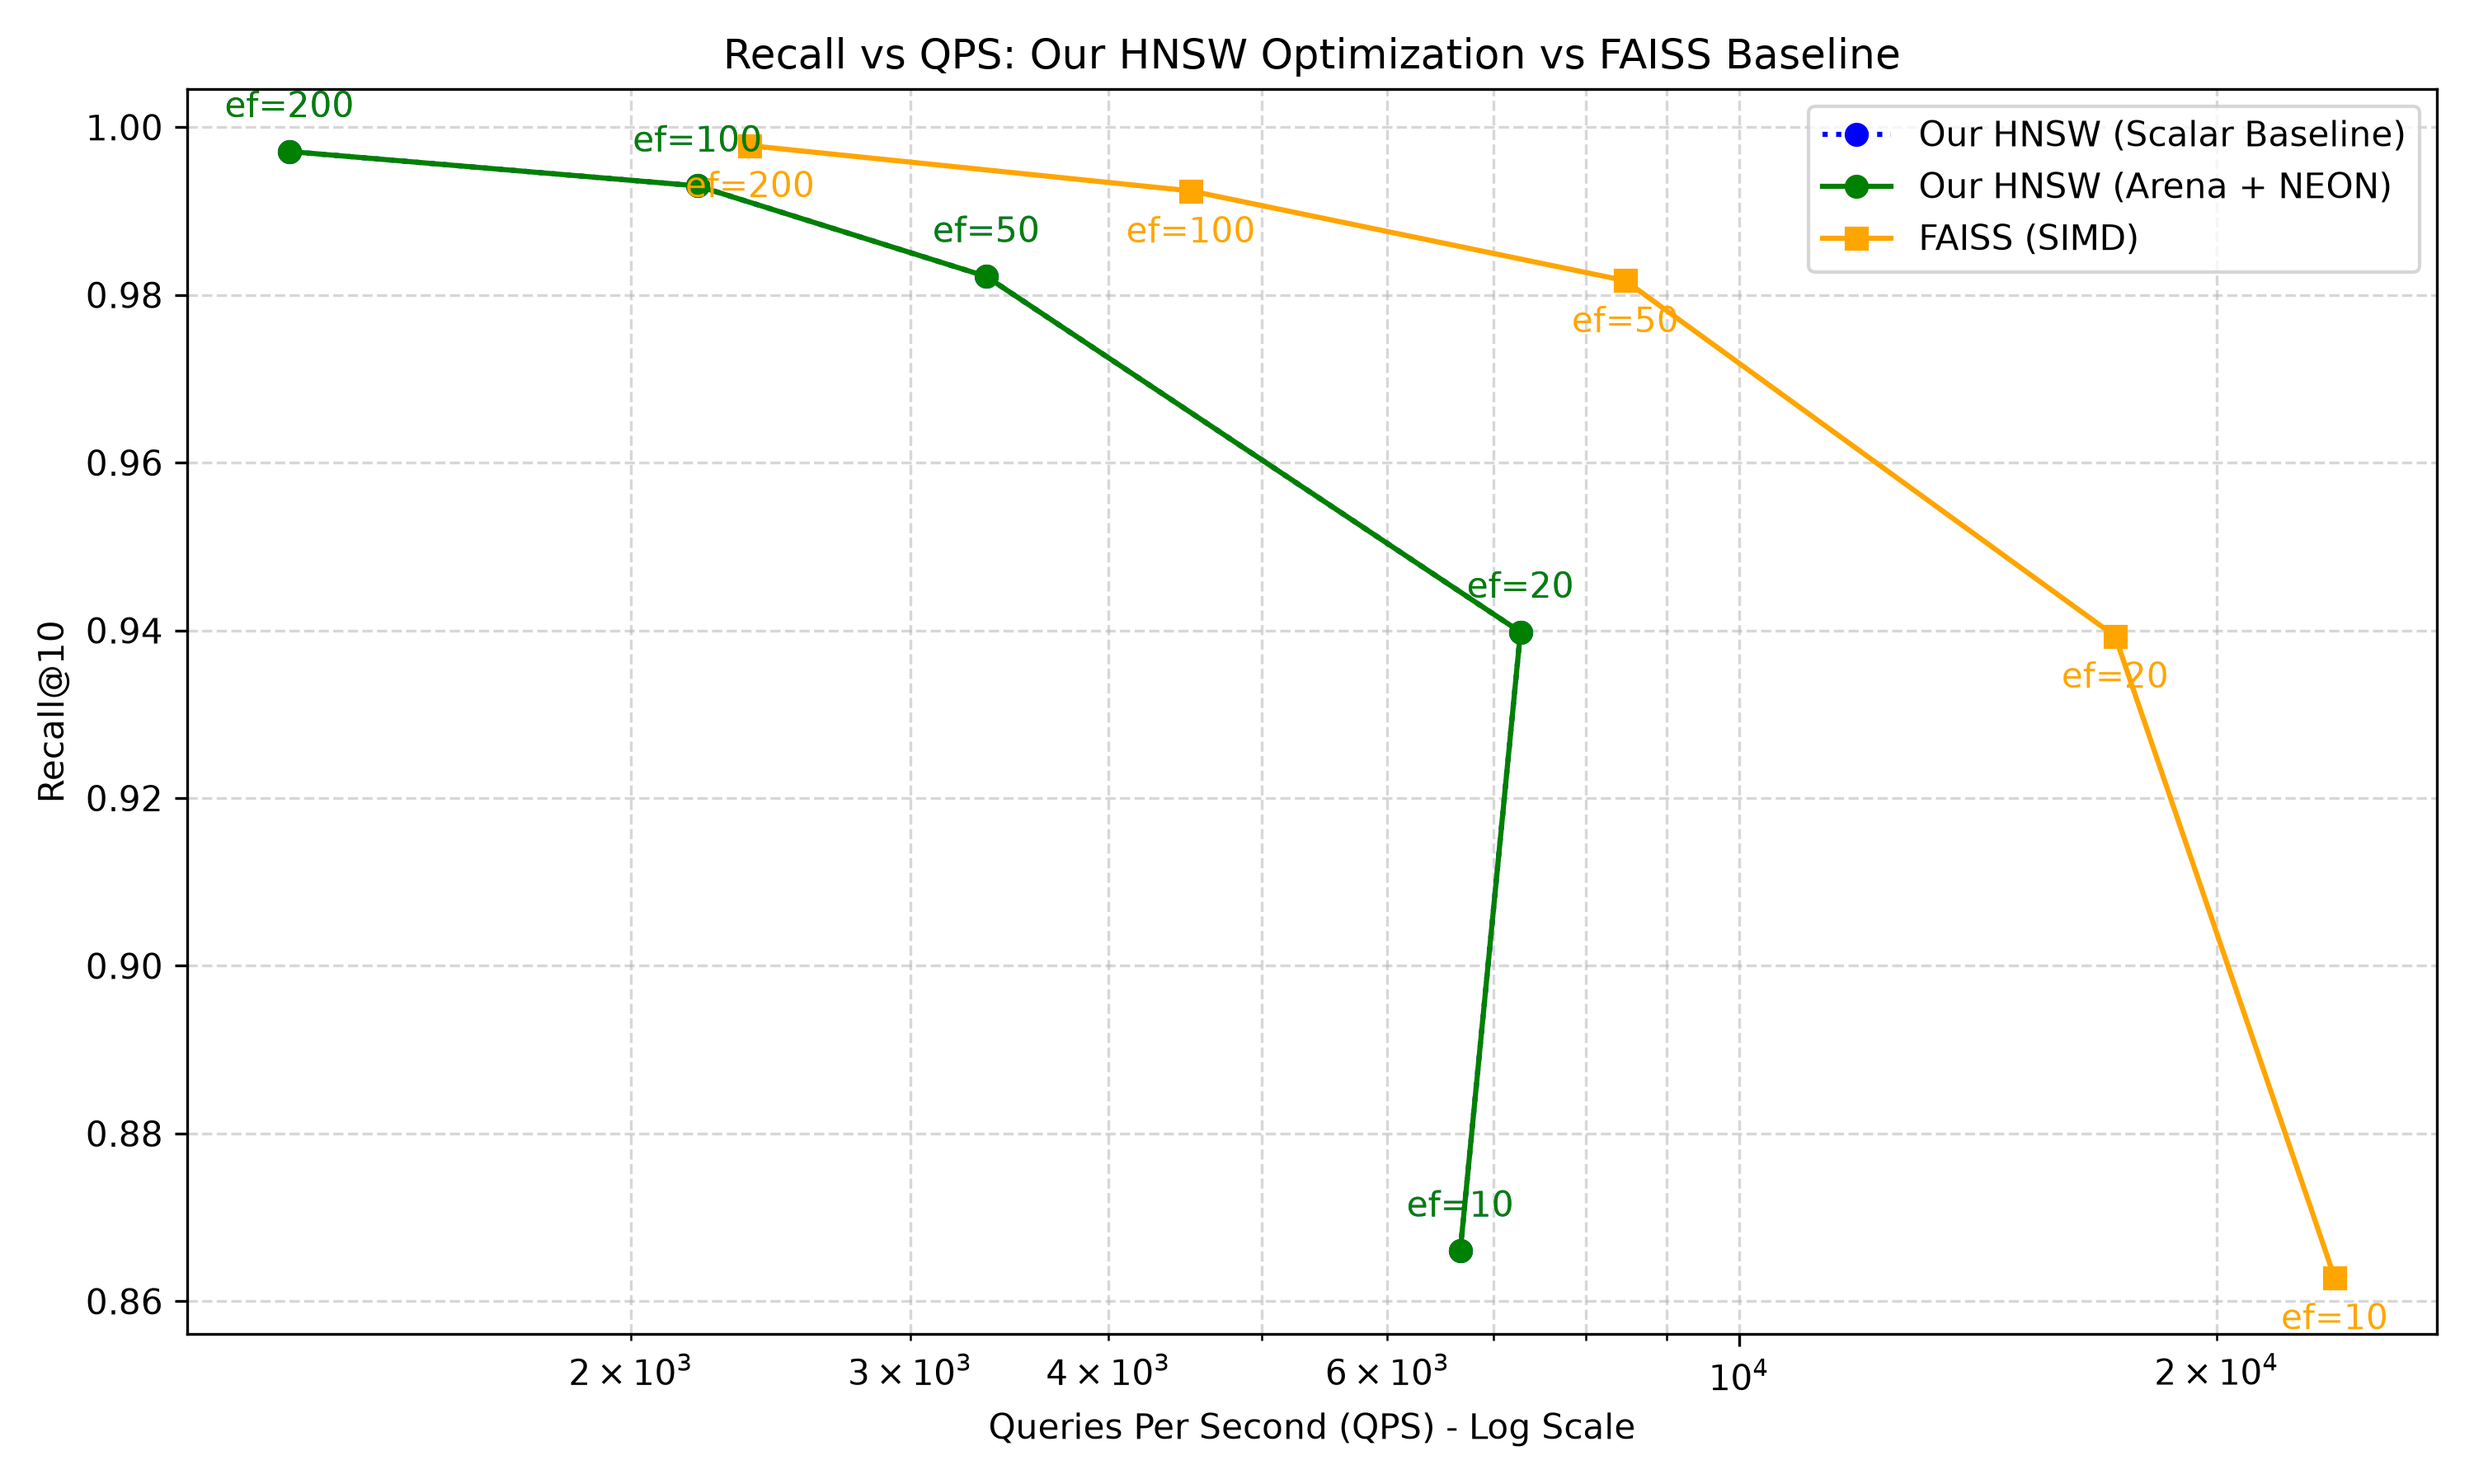
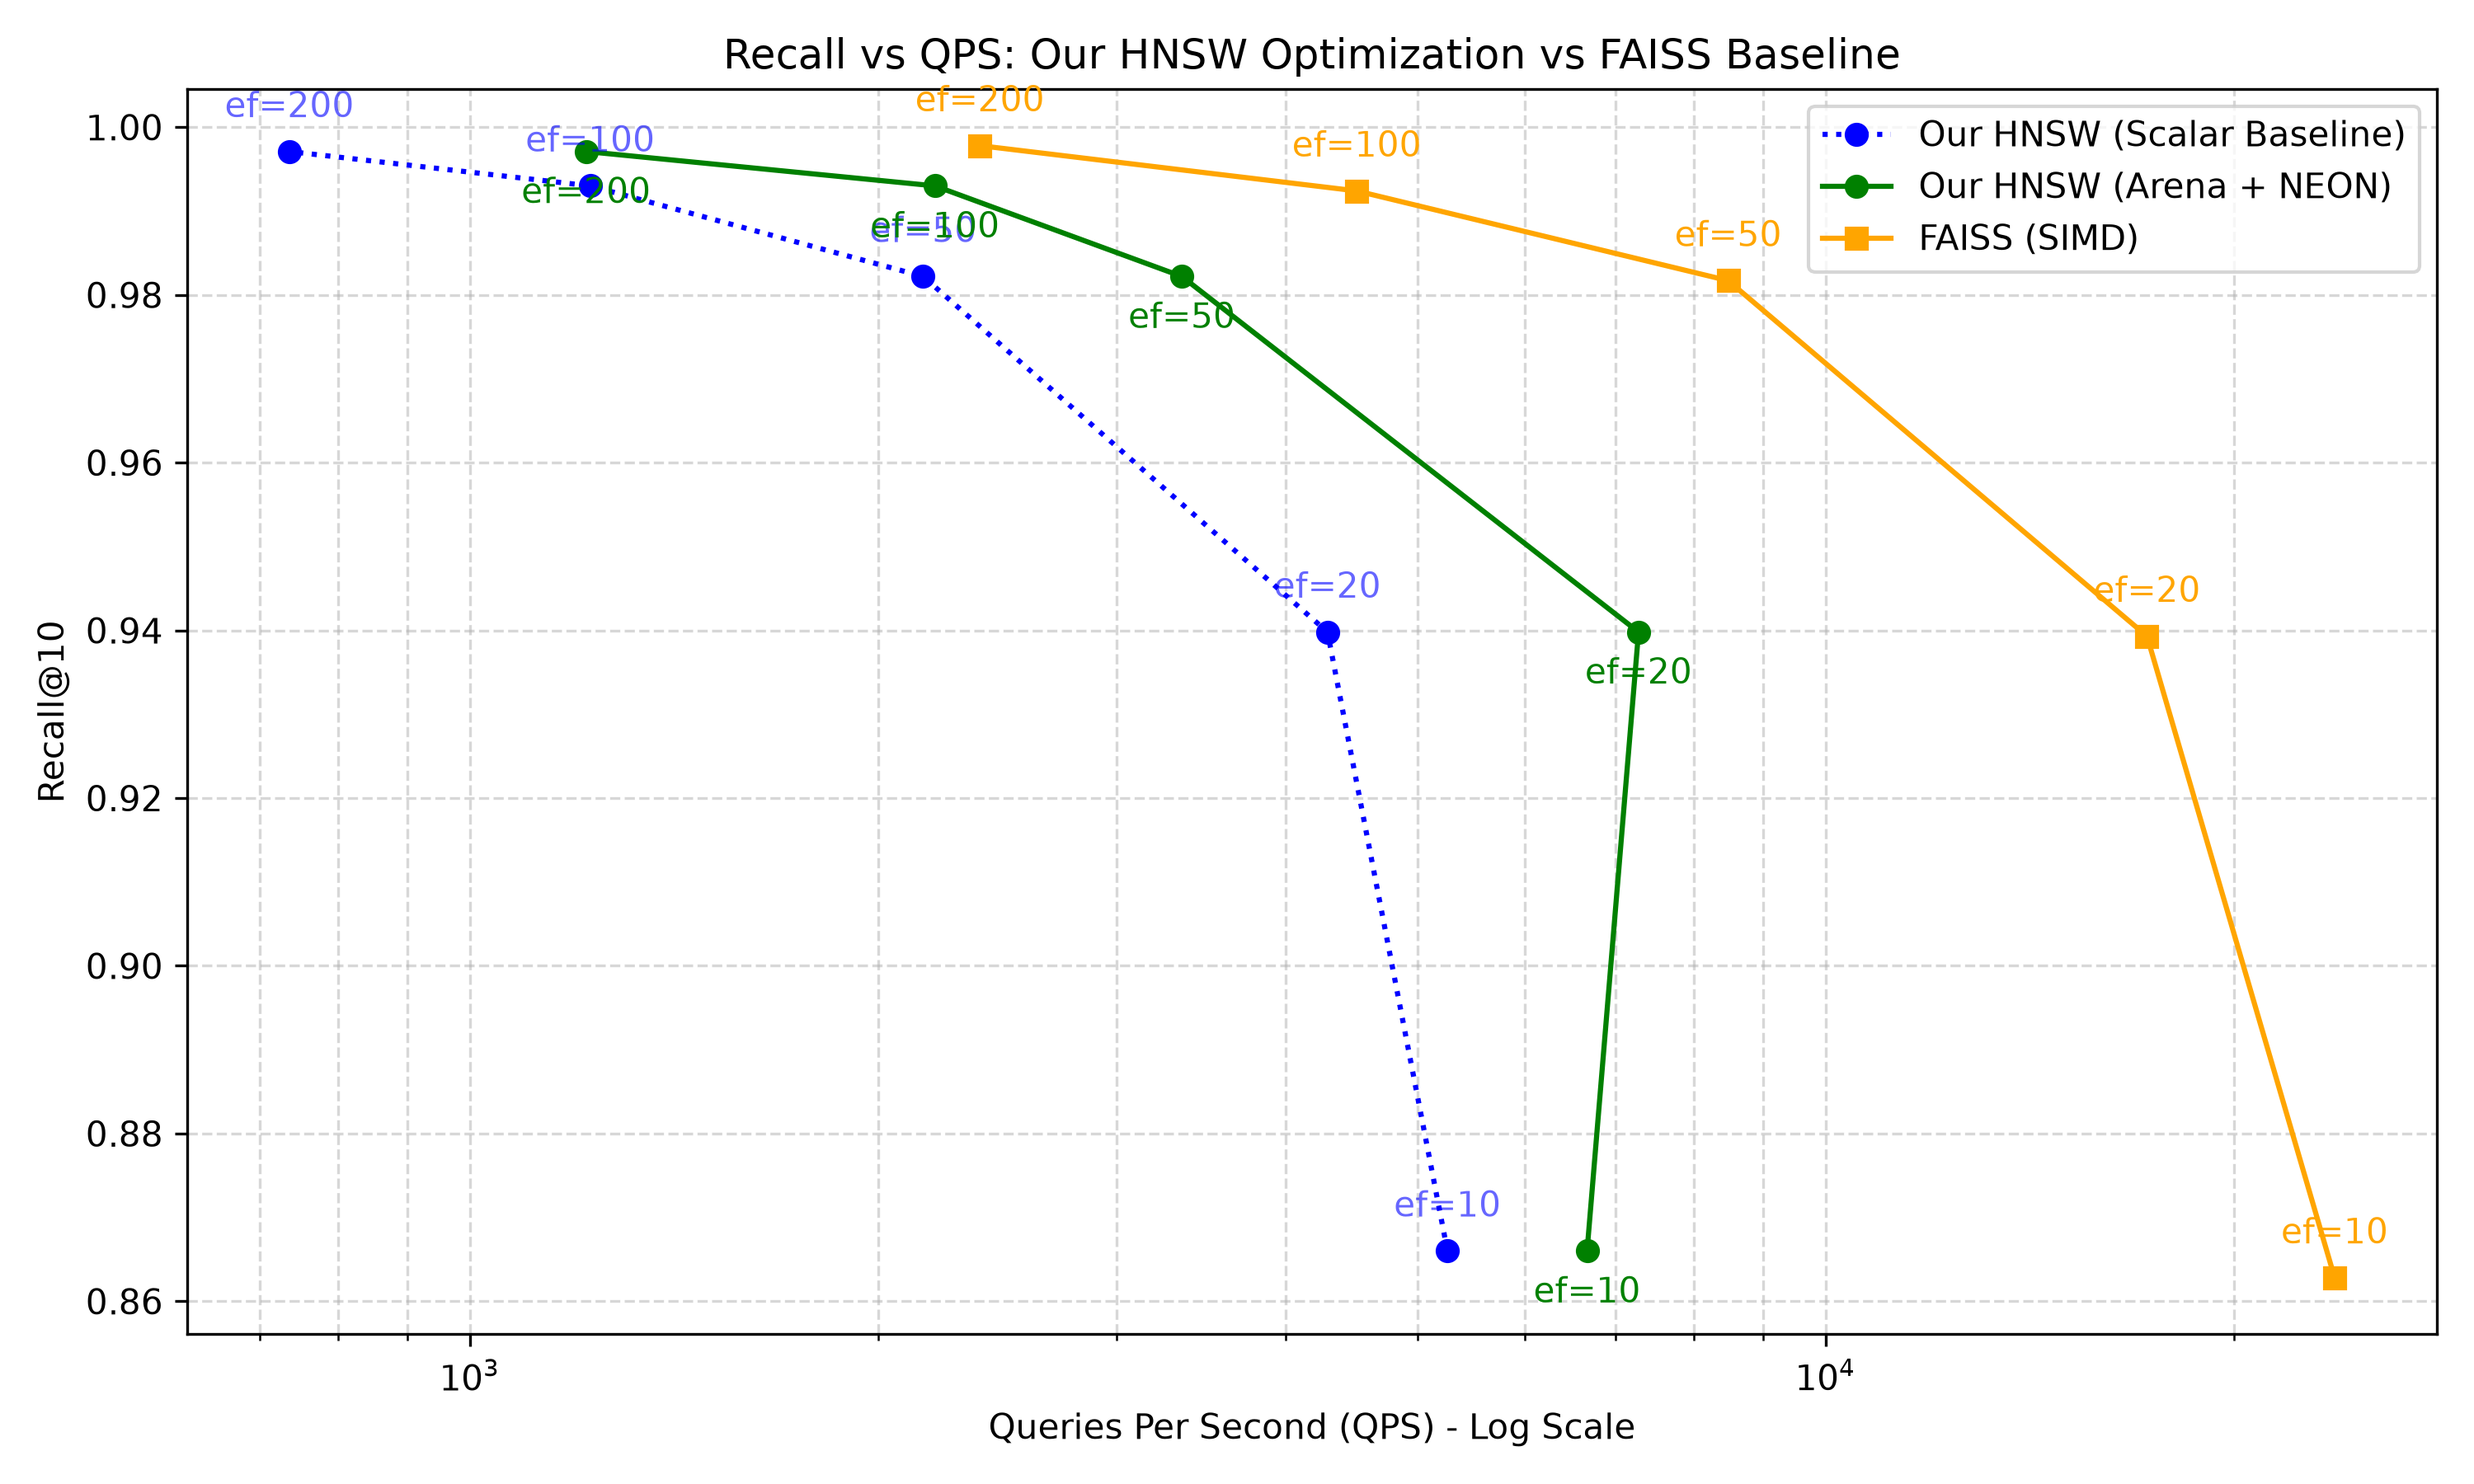
Fix plot rendering: correctly separate scalar and final csv sources so both lines appear

diff --git a/benchmarks/plot_results.py b/benchmarks/plot_results.py
@@ -4,20 +4,20 @@ import os
 
 def main():
     root_dir = os.path.dirname(os.path.dirname(os.path.abspath(__file__)))
-    hnsw_csv = os.path.join(root_dir, 'benchmarks', 'results_hnsw.csv')
+    hnsw_scalar_csv = os.path.join(root_dir, 'benchmarks', 'results_hnsw_scalar.csv')
     hnsw_final_csv = os.path.join(root_dir, 'benchmarks', 'results_hnsw_final.csv')
     faiss_csv = os.path.join(root_dir, 'benchmarks', 'results_faiss.csv')
     out_png = os.path.join(root_dir, 'benchmarks', 'recall_vs_qps.png')
     
-    df_hnsw = pd.read_csv(hnsw_csv)
+    df_hnsw_scalar = pd.read_csv(hnsw_scalar_csv)
     df_hnsw_final = pd.read_csv(hnsw_final_csv)
     df_faiss = pd.read_csv(faiss_csv)
     
     plt.figure(figsize=(10, 6))
     
     # Plot our baseline engine
-    plt.plot(df_hnsw['qps'], df_hnsw['avg_recall@10'], marker='o', linestyle=':', label='Our HNSW (Scalar Baseline)', color='blue')
-    for i, row in df_hnsw.iterrows():
+    plt.plot(df_hnsw_scalar['qps'], df_hnsw_scalar['avg_recall@10'], marker='o', linestyle=':', label='Our HNSW (Scalar Baseline)', color='blue')
+    for i, row in df_hnsw_scalar.iterrows():
         plt.annotate(f"ef={int(row['ef'])}", (row['qps'], row['avg_recall@10']), 
                      textcoords="offset points", xytext=(0,10), ha='center', color='blue', alpha=0.6)
                      
@@ -25,13 +25,13 @@ def main():
     plt.plot(df_hnsw_final['qps'], df_hnsw_final['avg_recall@10'], marker='o', label='Our HNSW (Arena + NEON)', color='green')
     for i, row in df_hnsw_final.iterrows():
         plt.annotate(f"ef={int(row['ef'])}", (row['qps'], row['avg_recall@10']), 
-                     textcoords="offset points", xytext=(0,10), ha='center', color='green')
+                     textcoords="offset points", xytext=(0,-15), ha='center', color='green')
                      
     # Plot FAISS
     plt.plot(df_faiss['qps'], df_faiss['avg_recall@10'], marker='s', label='FAISS (SIMD)', color='orange')
     for i, row in df_faiss.iterrows():
         plt.annotate(f"ef={int(row['ef'])}", (row['qps'], row['avg_recall@10']), 
-                     textcoords="offset points", xytext=(0,-15), ha='center', color='orange')
+                     textcoords="offset points", xytext=(0,10), ha='center', color='orange')
                      
     plt.xscale('log')
     plt.xlabel('Queries Per Second (QPS) - Log Scale')
